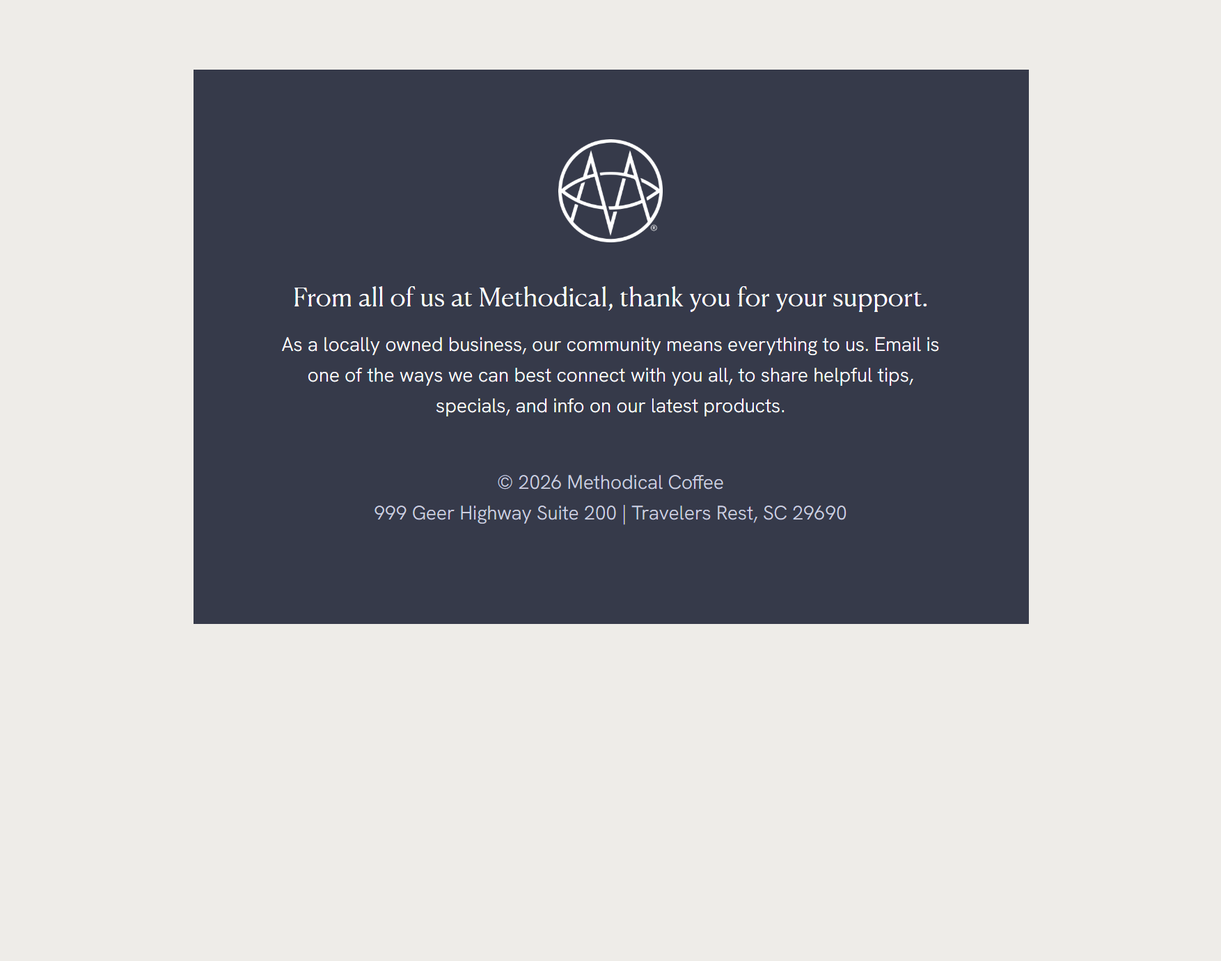
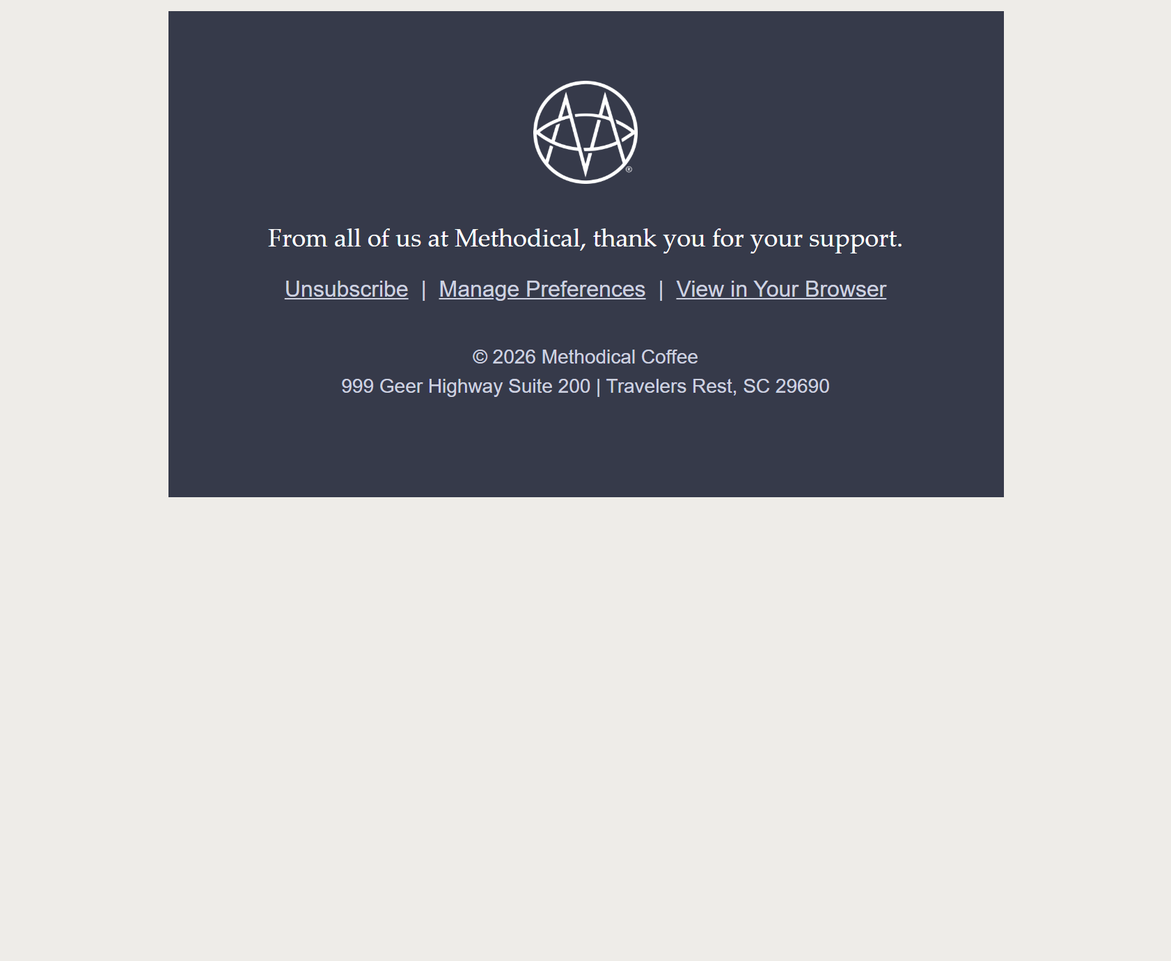
Day 74

Changed region(s): [[0.1237, 0.0, 0.8656, 0.6543]]

diff --git a/2026-03/15/generated_codes/5.html b/2026-03/15/generated_codes/5.html
@@ -24,118 +24,63 @@
                       <tr>
                         <td style="direction: ltr; font-size: 0px; padding: 0px; text-align: center">
                           <!--[if mso | IE]><table role="presentation" border="0" cellpadding="0" cellspacing="0"><table align="center" border="0" cellpadding="0" cellspacing="0" class="" style="width:600px;" width="600" bgcolor="#363A4A" ><tr><td style="line-height:0px;font-size:0px;mso-line-height-rule:exactly;"><![endif]-->
-                          <div style="background: #363a4a; background-color: #363a4a; margin: 0px auto; border-radius: 0px 0px 0px 0px; max-width: 600px">
-                            <table align="center" border="0" cellpadding="0" cellspacing="0" role="presentation" style="background: #363a4a; background-color: #363a4a; width: 100%; border-radius: 0px 0px 0px 0px">
+                          <div style="background: #363a4a; background-color: #363a4a; margin: 0px auto; border-radius: 0px; max-width: 600px">
+                            <table align="center" border="0" cellpadding="0" cellspacing="0" role="presentation" style="background: #363a4a; background-color: #363a4a; width: 100%; border-radius: 0px">
                               <tbody>
                                 <tr>
-                                  <td style="direction: ltr; font-size: 0px; padding: 20px 0; padding-bottom: 60px; padding-left: 18px; padding-right: 18px; padding-top: 0px; text-align: center">
-                                    <!--[if mso | IE]><table role="presentation" border="0" cellpadding="0" cellspacing="0"><![endif]-->
-                                    <div class="content-padding last">
-                                      <!--[if true]><table border="0" cellpadding="0" cellspacing="0" width="564" style="width:564px;direction:ltr"><tr><![endif]-->
-                                      <div class="kl-row colstack" style="display: table; table-layout: fixed; width: 100%">
-                                        <!--[if true]><td style="vertical-align:top;width:564px;"><![endif]-->
-                                        <div class="kl-column" style="display: table-cell; vertical-align: top; width: 100%">
-                                          <div class="mj-column-per-100 mj-outlook-group-fix component-wrapper" style="font-size: 0px; text-align: left; direction: ltr; vertical-align: top; width: 100%">
-                                            <table border="0" cellpadding="0" cellspacing="0" role="presentation" style="width: 100%" width="100%">
-                                              <tbody>
-                                                <tr>
-                                                  <td class="" style="vertical-align: top; padding-top: 50px; padding-right: 0px; padding-bottom: 25px; padding-left: 0px">
-                                                    <table border="0" cellpadding="0" cellspacing="0" role="presentation" style="" width="100%">
-                                                      <tbody>
-                                                        <tr>
-                                                          <td align="center" class="kl-image" style="font-size: 0px; word-break: break-word">
-                                                            <table border="0" cellpadding="0" cellspacing="0" style="border-collapse: collapse; border-spacing: 0px">
-                                                              <tbody>
-                                                                <tr>
-                                                                  <td class="" style="border: 0; padding: 0px 0px 0px 0px; width: 75px" valign="top">
-                                                                    <a class="kl-img-link" style="color: #ced2e0; text-decoration: underline; display: block" href="https://ctrk.klclick.com/l/01KHV6MWYHC7T019HEME2HEEEA_17">
-                                                                      <img alt="Methodical Coffee" src="https://d3k81ch9hvuctc.cloudfront.net/company/KKZyLV/images/0b6f1f4e-ba6d-4e9e-b814-00d23da8907f.png" style="display: block; outline: none; text-decoration: none; height: auto; font-size: 13px; width: 100%" title="Methodical Coffee" width="75" />
-                                                                    </a>
-                                                                  </td>
-                                                                </tr>
-                                                              </tbody>
-                                                            </table>
-                                                          </td>
-                                                        </tr>
-                                                      </tbody>
-                                                    </table>
-                                                  </td>
-                                                </tr>
-                                              </tbody>
-                                            </table>
-                                          </div>
-                                          <div class="mj-column-per-100 mj-outlook-group-fix component-wrapper" style="font-size: 0px; text-align: left; direction: ltr; vertical-align: top; width: 100%">
-                                            <table border="0" cellpadding="0" cellspacing="0" role="presentation" style="width: 100%" width="100%">
-                                              <tbody>
-                                                <tr>
-                                                  <td class="mob-no-spc" style="vertical-align: top; padding-top: 0px; padding-right: 25px; padding-bottom: 0px; padding-left: 25px">
-                                                    <table border="0" cellpadding="0" cellspacing="0" role="presentation" style="" width="100%">
-                                                      <tbody>
-                                                        <tr>
-                                                          <td align="left" class="kl-text" style="font-size: 0px; padding: 0px; padding-top: 0px; padding-right: 0px; padding-bottom: 0px; padding-left: 0px; word-break: break-word">
-                                                            <div style="font-family: &quot;Hanken Grotesk&quot;, Helvetica, Arial, sans-serif; font-size: 18px; font-style: normal; font-weight: 300; letter-spacing: 0px; line-height: 1.5; text-align: left; color: #3e3a37">
-                                                              <div style="text-align: center"><span style="font-family: &quot;Canela Text&quot;, Palatino, &quot;Palatino Linotype&quot;, &quot;Palatino LT STD&quot;, &quot;Book Antiqua&quot;, Georgia, serif; font-weight: 300; font-style: normal; font-size: 18px; color: rgb(255, 255, 255)">From all of us at Methodical, thank you for your support.</span></div>
-                                                            </div>
-                                                          </td>
-                                                        </tr>
-                                                      </tbody>
-                                                    </table>
-                                                  </td>
-                                                </tr>
-                                              </tbody>
-                                            </table>
-                                          </div>
-                                          <div class="mj-column-per-100 mj-outlook-group-fix component-wrapper" style="font-size: 0px; text-align: left; direction: ltr; vertical-align: top; width: 100%">
-                                            <table border="0" cellpadding="0" cellspacing="0" role="presentation" style="width: 100%" width="100%">
-                                              <tbody>
-                                                <tr>
-                                                  <td class="mob-no-spc" style="vertical-align: top; padding-top: 10px; padding-right: 25px; padding-bottom: 10px; padding-left: 25px">
-                                                    <table border="0" cellpadding="0" cellspacing="0" role="presentation" style="" width="100%">
-                                                      <tbody>
-                                                        <tr>
-                                                          <td align="left" class="kl-text" style="font-size: 0px; padding: 0px; padding-top: 0px; padding-right: 0px; padding-bottom: 0px; padding-left: 0px; word-break: break-word">
-                                                            <div style="font-family: &quot;Hanken Grotesk&quot;, Helvetica, Arial, sans-serif; font-size: 18px; font-style: normal; font-weight: 300; letter-spacing: 0px; line-height: 1.5; text-align: left; color: #3e3a37">
-                                                              <div style="text-align: center; line-height: 150%"><span style="font-family: &quot;Hanken Grotesk&quot;, Helvetica, Arial, sans-serif; font-weight: 300; font-style: normal; color: rgb(206, 210, 224); font-size: 14px"> As a locally owned business, our community means everything to us. Email is one of the ways we can best connect with you all, to share helpful tips, specials, and info on our latest products. </span></div>
-                                                            </div>
-                                                          </td>
-                                                        </tr>
-                                                      </tbody>
-                                                    </table>
-                                                  </td>
-                                                </tr>
-                                              </tbody>
-                                            </table>
-                                          </div>
-                                          <div class="mj-column-per-100 mj-outlook-group-fix component-wrapper" style="font-size: 0px; text-align: left; direction: ltr; vertical-align: top; width: 100%">
-                                            <table border="0" cellpadding="0" cellspacing="0" role="presentation" style="width: 100%" width="100%">
-                                              <tbody>
-                                                <tr>
-                                                  <td class="mob-no-spc" style="vertical-align: top; padding-top: 25px; padding-right: 9px; padding-bottom: 9px; padding-left: 9px">
-                                                    <table border="0" cellpadding="0" cellspacing="0" role="presentation" style="" width="100%">
-                                                      <tbody>
-                                                        <tr>
-                                                          <td align="left" class="kl-text" style="font-size: 0px; padding: 0px; padding-top: 0px; padding-right: 0px; padding-bottom: 0px; padding-left: 0px; word-break: break-word">
-                                                            <div style="font-family: &quot;Hanken Grotesk&quot;, Helvetica, Arial, sans-serif; font-size: 18px; font-style: normal; font-weight: 300; letter-spacing: 0px; line-height: 1.5; text-align: left; color: #3e3a37">
-                                                              <div style="text-align: center; line-height: 110%">
-                                                                <span style="font-family: &quot;Hanken Grotesk&quot;, Helvetica, Arial, sans-serif; font-weight: 300; font-style: normal; color: rgb(206, 210, 224); font-size: 14px"><span style="font-weight: 300; font-size: 14px; font-family: &quot;Hanken Grotesk&quot;, Helvetica, Arial, sans-serif; color: rgb(206, 210, 224)">© 2026 Methodical Coffee</span></span>
-                                                              </div>
-                                                              <div style="text-align: center; line-height: 110%"><span style="font-family: &quot;Hanken Grotesk&quot;, Helvetica, Arial, sans-serif; font-weight: 300; font-style: normal; color: rgb(206, 210, 224); font-size: 14px">999 Geer Highway Suite 200 | Travelers Rest, SC 29690</span></div>
-                                                            </div>
-                                                          </td>
-                                                        </tr>
-                                                      </tbody>
-                                                    </table>
-                                                  </td>
-                                                </tr>
-                                              </tbody>
-                                            </table>
-                                          </div>
-                                        </div>
-                                        <!--[if true]></td><![endif]-->
-                                      </div>
-                                      <!--[if true]></tr></table><![endif]-->
+                                  <td style="direction: ltr; font-size: 0px; padding: 40px 0 40px 0; text-align: center">
+                                    <div class="mj-column-per-100 mj-outlook-group-fix component-wrapper" style="font-size: 0px; text-align: left; direction: ltr; vertical-align: top; width: 100%">
+                                      <table border="0" cellpadding="0" cellspacing="0" role="presentation" style="width: 100%" width="100%">
+                                        <tbody>
+                                          <tr>
+                                            <td class="mob-no-spc" style="vertical-align: top; padding: 9px">
+                                              <table border="0" cellpadding="0" cellspacing="0" role="presentation" style="" width="100%">
+                                                <tbody>
+                                                  <tr>
+                                                    <td align="center" class="kl-text" style="font-size: 0px; padding: 0px; word-break: break-word">
+                                                      <div style="font-family: &quot;Canela Text&quot;, Palatino, &quot;Palatino Linotype&quot;, &quot;Palatino LT STD&quot;, &quot;Book Antiqua&quot;, Georgia, serif; font-size: 18px; font-style: normal; font-weight: 300; letter-spacing: 0px; line-height: 1.5; text-align: center; color: #ffffff">
+                                                        <div style="text-align: center"><span style="font-family: &quot;Canela Text&quot;, Palatino, &quot;Palatino Linotype&quot;, &quot;Palatino LT STD&quot;, &quot;Book Antiqua&quot;, Georgia, serif; font-weight: 300; font-style: normal; font-size: 18px; color: rgb(255, 255, 255)"> From all of us at Methodical, thank you for your support. </span></div>
+                                                      </div>
+                                                    </td>
+                                                  </tr>
+                                                </tbody>
+                                              </table>
+                                            </td>
+                                          </tr>
+                                          <tr>
+                                            <td class="mob-no-spc" style="vertical-align: top; padding-top: 25px; padding-right: 9px; padding-bottom: 9px; padding-left: 9px">
+                                              <table border="0" cellpadding="0" cellspacing="0" role="presentation" style="" width="100%">
+                                                <tbody>
+                                                  <tr>
+                                                    <td align="center" class="kl-text" style="font-size: 0px; padding: 0px; word-break: break-word">
+                                                      <div style="font-family: &quot;Hanken Grotesk&quot;, Helvetica, Arial, sans-serif; font-size: 14px; font-style: normal; font-weight: 300; letter-spacing: 0px; line-height: 1.5; text-align: center; color: #ced2e0">
+                                                        <div style="text-align: center"><a href="{{ unsubscribe_link }}" style="color: #ced2e0; text-decoration: underline">Unsubscribe</a> &nbsp;|&nbsp; <a href="{{ manage_preferences_link }}" style="color: #ced2e0; text-decoration: underline">Manage Preferences</a> &nbsp;|&nbsp; <a href="{{ view_in_browser_link }}" style="color: #ced2e0; text-decoration: underline">View in Your Browser</a></div>
+                                                      </div>
+                                                    </td>
+                                                  </tr>
+                                                </tbody>
+                                              </table>
+                                            </td>
+                                          </tr>
+                                          <tr>
+                                            <td class="mob-no-spc" style="vertical-align: top; padding-top: 20px; padding-right: 9px; padding-bottom: 9px; padding-left: 9px">
+                                              <table border="0" cellpadding="0" cellspacing="0" role="presentation" style="" width="100%">
+                                                <tbody>
+                                                  <tr>
+                                                    <td align="center" class="kl-text" style="font-size: 0px; padding: 0px; word-break: break-word">
+                                                      <div style="font-family: &quot;Hanken Grotesk&quot;, Helvetica, Arial, sans-serif; font-size: 14px; font-style: normal; font-weight: 300; letter-spacing: 0px; line-height: 1.5; text-align: center; color: #ced2e0">
+                                                        <div style="text-align: center; line-height: 110%"><span style="font-weight: 300; font-size: 14px; font-family: &quot;Hanken Grotesk&quot;, Helvetica, Arial, sans-serif; color: rgb(206, 210, 224)"> © 2026 Methodical Coffee </span></div>
+                                                        <div style="text-align: center; line-height: 110%"><span style="font-family: &quot;Hanken Grotesk&quot;, Helvetica, Arial, sans-serif; font-weight: 300; font-style: normal; color: rgb(206, 210, 224); font-size: 14px"> 999 Geer Highway Suite 200 | Travelers Rest, SC 29690 </span></div>
+                                                      </div>
+                                                    </td>
+                                                  </tr>
+                                                </tbody>
+                                              </table>
+                                            </td>
+                                          </tr>
+                                        </tbody>
+                                      </table>
                                     </div>
-                                    <!--[if mso | IE]></table><![endif]-->
                                   </td>
                                 </tr>
                               </tbody>

diff --git a/2026-03/15/generated_codes/3.html b/2026-03/15/generated_codes/3.html
@@ -47,9 +47,9 @@
                                                             <table border="0" cellpadding="0" cellspacing="0" style="border-collapse: collapse; border-spacing: 0px">
                                                               <tbody>
                                                                 <tr>
-                                                                  <td class="" style="border: 0; padding: 0px 0px 0px 0px; width: 90px" valign="top">
+                                                                  <td class="" style="border: 0; padding: 0px 0px 0px 0px; width: 75px" valign="top">
                                                                     <a class="kl-img-link" style="color: #ced2e0; text-decoration: underline; display: block" href="https://ctrk.klclick.com/l/01KHV6MWYHC7T019HEME2HEEEA_17">
-                                                                      <img alt="Methodical Coffee" src="https://d3k81ch9hvuctc.cloudfront.net/company/KKZyLV/images/0b6f1f4e-ba6d-4e9e-b814-00d23da8907f.png" style="display: block; outline: none; text-decoration: none; height: auto; font-size: 13px; width: 100%" title="Methodical Coffee" width="90" />
+                                                                      <img alt="Methodical Coffee" src="https://d3k81ch9hvuctc.cloudfront.net/company/KKZyLV/images/0b6f1f4e-ba6d-4e9e-b814-00d23da8907f.png" style="display: block; outline: none; text-decoration: none; height: auto; font-size: 13px; width: 100%" title="Methodical Coffee" width="75" />
                                                                     </a>
                                                                   </td>
                                                                 </tr>
@@ -74,7 +74,7 @@
                                                         <tr>
                                                           <td align="left" class="kl-text" style="font-size: 0px; padding: 0px; padding-top: 0px; padding-right: 0px; padding-bottom: 0px; padding-left: 0px; word-break: break-word">
                                                             <div style="font-family: &quot;Hanken Grotesk&quot;, Helvetica, Arial, sans-serif; font-size: 18px; font-style: normal; font-weight: 300; letter-spacing: 0px; line-height: 1.5; text-align: left; color: #3e3a37">
-                                                              <div style="text-align: center"><span style="font-family: &quot;Canela Text&quot;, Palatino, &quot;Palatino Linotype&quot;, &quot;Palatino LT STD&quot;, &quot;Book Antiqua&quot;, Georgia, serif; font-weight: 300; font-style: normal; font-size: 26px; color: rgb(255, 255, 255)"> From all of us at Methodical, thank you for your support. </span></div>
+                                                              <div style="text-align: center"><span style="font-family: &quot;Canela Text&quot;, Palatino, &quot;Palatino Linotype&quot;, &quot;Palatino LT STD&quot;, &quot;Book Antiqua&quot;, Georgia, serif; font-weight: 300; font-style: normal; font-size: 18px; color: rgb(255, 255, 255)">From all of us at Methodical, thank you for your support.</span></div>
                                                             </div>
                                                           </td>
                                                         </tr>
@@ -89,13 +89,15 @@
                                             <table border="0" cellpadding="0" cellspacing="0" role="presentation" style="width: 100%" width="100%">
                                               <tbody>
                                                 <tr>
-                                                  <td class="mob-no-spc" style="vertical-align: top; padding-top: 20px; padding-right: 25px; padding-bottom: 0px; padding-left: 25px">
+                                                  <td class="mob-no-spc" style="vertical-align: top; padding-top: 10px; padding-right: 25px; padding-bottom: 10px; padding-left: 25px">
                                                     <table border="0" cellpadding="0" cellspacing="0" role="presentation" style="" width="100%">
                                                       <tbody>
                                                         <tr>
                                                           <td align="left" class="kl-text" style="font-size: 0px; padding: 0px; padding-top: 0px; padding-right: 0px; padding-bottom: 0px; padding-left: 0px; word-break: break-word">
-                                                            <div style="font-family: &quot;Hanken Grotesk&quot;, Helvetica, Arial, sans-serif; font-size: 16px; font-style: normal; font-weight: 300; letter-spacing: 0px; line-height: 1.6; text-align: left; color: #3e3a37">
-                                                              <div style="text-align: center"><span style="color: #ced2e0"> As a locally owned business, our community means everything to us. Email is one of the ways we can best connect with you all, to share helpful tips, specials, and info on our latest products. </span></div>
+                                                            <div style="font-family: &quot;Hanken Grotesk&quot;, Helvetica, Arial, sans-serif; font-size: 18px; font-style: normal; font-weight: 300; letter-spacing: 0px; line-height: 1.5; text-align: left; color: #3e3a37">
+                                                              <div style="text-align: center; line-height: 120%">
+                                                                <span style="font-family: &quot;Hanken Grotesk&quot;, Helvetica, Arial, sans-serif; font-size: 14px; color: #ced2e0"> <a href="#" style="color: #ced2e0; text-decoration: underline">Unsubscribe</a> &nbsp;|&nbsp; <a href="#" style="color: #ced2e0; text-decoration: underline">Manage Preferences</a> &nbsp;|&nbsp; <a href="#" style="color: #ced2e0; text-decoration: underline">View in Your Browser</a> </span>
+                                                              </div>
                                                             </div>
                                                           </td>
                                                         </tr>

diff --git a/2026-03/15/generated_codes/4.html b/2026-03/15/generated_codes/4.html
@@ -73,8 +73,8 @@
                                                       <tbody>
                                                         <tr>
                                                           <td align="left" class="kl-text" style="font-size: 0px; padding: 0px; padding-top: 0px; padding-right: 0px; padding-bottom: 0px; padding-left: 0px; word-break: break-word">
-                                                            <div style="font-family: &quot;Hanken Grotesk&quot;, Helvetica, Arial, sans-serif; font-size: 28px; font-style: normal; font-weight: 300; letter-spacing: 0px; line-height: 1.4; text-align: left; color: #3e3a37">
-                                                              <div style="text-align: center"><span style="font-family: &quot;Canela Text&quot;, Palatino, &quot;Palatino Linotype&quot;, &quot;Palatino LT STD&quot;, &quot;Book Antiqua&quot;, Georgia, serif; font-weight: 300; font-style: normal; font-size: 28px; color: rgb(255, 255, 255)">From all of us at Methodical, thank you for your support.</span></div>
+                                                            <div style="font-family: &quot;Hanken Grotesk&quot;, Helvetica, Arial, sans-serif; font-size: 18px; font-style: normal; font-weight: 300; letter-spacing: 0px; line-height: 1.5; text-align: left; color: #3e3a37">
+                                                              <div style="text-align: center"><span style="font-family: &quot;Canela Text&quot;, Palatino, &quot;Palatino Linotype&quot;, &quot;Palatino LT STD&quot;, &quot;Book Antiqua&quot;, Georgia, serif; font-weight: 300; font-style: normal; font-size: 18px; color: rgb(255, 255, 255)">From all of us at Methodical, thank you for your support.</span></div>
                                                             </div>
                                                           </td>
                                                         </tr>
@@ -89,13 +89,17 @@
                                             <table border="0" cellpadding="0" cellspacing="0" role="presentation" style="width: 100%" width="100%">
                                               <tbody>
                                                 <tr>
-                                                  <td class="mob-no-spc" style="vertical-align: top; padding-top: 20px; padding-right: 40px; padding-bottom: 0px; padding-left: 40px">
+                                                  <td class="mob-no-spc" style="vertical-align: top; padding-top: 15px; padding-right: 9px; padding-bottom: 9px; padding-left: 9px">
                                                     <table border="0" cellpadding="0" cellspacing="0" role="presentation" style="" width="100%">
                                                       <tbody>
                                                         <tr>
                                                           <td align="left" class="kl-text" style="font-size: 0px; padding: 0px; padding-top: 0px; padding-right: 0px; padding-bottom: 0px; padding-left: 0px; word-break: break-word">
-                                                            <div style="font-family: &quot;Hanken Grotesk&quot;, Helvetica, Arial, sans-serif; font-size: 16px; font-style: normal; font-weight: 300; letter-spacing: 0px; line-height: 1.6; text-align: left; color: #3e3a37">
-                                                              <div style="text-align: center"><span style="color: rgb(206, 210, 224)">As a locally owned business, our community means everything to us. Email is one of the ways we can best connect with you all, to share helpful tips, specials, and info on our latest products.</span></div>
+                                                            <div style="font-family: &quot;Hanken Grotesk&quot;, Helvetica, Arial, sans-serif; font-size: 18px; font-style: normal; font-weight: 300; letter-spacing: 0px; line-height: 1.5; text-align: left; color: #3e3a37">
+                                                              <div style="text-align: center; line-height: 110%">
+                                                                <span style="font-family: &quot;Hanken Grotesk&quot;, Helvetica, Arial, sans-serif; font-weight: 300; font-style: normal; color: rgb(206, 210, 224); font-size: 14px">
+                                                                  <a href="{{ unsubscribe_link }}" style="color: #ced2e0; text-decoration: underline">Unsubscribe</a> &nbsp;|&nbsp; <a href="{{ manage_preferences_link }}" style="color: #ced2e0; text-decoration: underline">Manage Preferences</a> &nbsp;|&nbsp; <a href="{{ view_in_browser_link }}" style="color: #ced2e0; text-decoration: underline">View in Your Browser</a>
+                                                                </span>
+                                                              </div>
                                                             </div>
                                                           </td>
                                                         </tr>

diff --git a/2026-03/15/generated_codes/2.html b/2026-03/15/generated_codes/2.html
@@ -74,7 +74,7 @@
                                                         <tr>
                                                           <td align="left" class="kl-text" style="font-size: 0px; padding: 0px; padding-top: 0px; padding-right: 0px; padding-bottom: 0px; padding-left: 0px; word-break: break-word">
                                                             <div style="font-family: &quot;Hanken Grotesk&quot;, Helvetica, Arial, sans-serif; font-size: 18px; font-style: normal; font-weight: 300; letter-spacing: 0px; line-height: 1.5; text-align: left; color: #3e3a37">
-                                                              <div style="text-align: center"><span style="font-family: &quot;Canela Text&quot;, Palatino, &quot;Palatino Linotype&quot;, &quot;Palatino LT STD&quot;, &quot;Book Antiqua&quot;, Georgia, serif; font-weight: 300; font-style: normal; font-size: 28px; color: rgb(255, 255, 255)">From all of us at Methodical, thank you for your support.</span></div>
+                                                              <div style="text-align: center"><span style="font-family: &quot;Canela Text&quot;, Palatino, &quot;Palatino Linotype&quot;, &quot;Palatino LT STD&quot;, &quot;Book Antiqua&quot;, Georgia, serif; font-weight: 300; font-style: normal; font-size: 18px; color: rgb(255, 255, 255)">From all of us at Methodical, thank you for your support.</span></div>
                                                             </div>
                                                           </td>
                                                         </tr>
@@ -89,13 +89,15 @@
                                             <table border="0" cellpadding="0" cellspacing="0" role="presentation" style="width: 100%" width="100%">
                                               <tbody>
                                                 <tr>
-                                                  <td class="mob-no-spc" style="vertical-align: top; padding-top: 15px; padding-right: 25px; padding-bottom: 15px; padding-left: 25px">
+                                                  <td class="mob-no-spc" style="vertical-align: top; padding-top: 10px; padding-right: 9px; padding-bottom: 9px; padding-left: 9px">
                                                     <table border="0" cellpadding="0" cellspacing="0" role="presentation" style="" width="100%">
                                                       <tbody>
                                                         <tr>
                                                           <td align="left" class="kl-text" style="font-size: 0px; padding: 0px; padding-top: 0px; padding-right: 0px; padding-bottom: 0px; padding-left: 0px; word-break: break-word">
                                                             <div style="font-family: &quot;Hanken Grotesk&quot;, Helvetica, Arial, sans-serif; font-size: 18px; font-style: normal; font-weight: 300; letter-spacing: 0px; line-height: 1.5; text-align: left; color: #3e3a37">
-                                                              <div style="text-align: center; line-height: 150%"><span style="font-family: &quot;Hanken Grotesk&quot;, Helvetica, Arial, sans-serif; font-weight: 300; font-style: normal; color: rgb(206, 210, 224); font-size: 16px">As a locally owned business, our community means everything to us. Email is one of the ways we can best connect with you all, to share helpful tips, specials, and info on our latest products.</span></div>
+                                                              <div style="text-align: center; line-height: 110%">
+                                                                <span style="font-family: &quot;Hanken Grotesk&quot;, Helvetica, Arial, sans-serif; font-size: 14px; color: #ced2e0"> <a href="#" style="color: #ced2e0; text-decoration: underline">Unsubscribe</a> &nbsp;|&nbsp; <a href="#" style="color: #ced2e0; text-decoration: underline">Manage Preferences</a> &nbsp;|&nbsp; <a href="#" style="color: #ced2e0; text-decoration: underline">View in Your Browser</a> </span>
+                                                              </div>
                                                             </div>
                                                           </td>
                                                         </tr>

diff --git a/2026-03/15/_gold-standandard.html b/2026-03/15/_gold-standandard.html
@@ -8,7 +8,6 @@
     <meta content="text/html; charset=utf-8" http-equiv="Content-Type" />
     <meta content="width=device-width, initial-scale=1" name="viewport" />
   </head>
-
   <body style="word-spacing: normal; background-color: #eeece8">
     <div style="display: none; font-size: 1px; color: #ffffff; line-height: 1px; max-height: 0px; max-width: 0px; opacity: 0; overflow: hidden">Find the perfect roast for you!</div>
     <!-- TRACKING_PIXEL_TOP -->
@@ -90,13 +89,24 @@
                                             <table border="0" cellpadding="0" cellspacing="0" role="presentation" style="width: 100%" width="100%">
                                               <tbody>
                                                 <tr>
-                                                  <td class="mob-no-spc" style="vertical-align: top; padding-top: 9px; padding-right: 45px; padding-bottom: 9px; padding-left: 45px">
+                                                  <td class="mob-no-spc" style="vertical-align: top; padding-top: 9px; padding-right: 18px; padding-bottom: 0px; padding-left: 18px">
                                                     <table border="0" cellpadding="0" cellspacing="0" role="presentation" style="" width="100%">
                                                       <tbody>
                                                         <tr>
                                                           <td align="left" class="kl-text" style="font-size: 0px; padding: 0px; padding-top: 0px; padding-right: 0px; padding-bottom: 0px; padding-left: 0px; word-break: break-word">
                                                             <div style="font-family: &quot;Hanken Grotesk&quot;, Helvetica, Arial, sans-serif; font-size: 18px; font-style: normal; font-weight: 300; letter-spacing: 0px; line-height: 1.5; text-align: left; color: #3e3a37">
-                                                              <div style="text-align: center; line-height: 110%"><span style="font-family: &quot;Hanken Grotesk&quot;, Helvetica, Arial, sans-serif; font-weight: 300; font-style: normal; color: rgb(255, 255, 255); font-size: 14px">As a locally owned business, our community means everything to us. Email is one of the ways we can best connect with you all, to share helpful tips, specials, and info on our latest products.</span></div>
+                                                              <div style="text-align: center">
+                                                                <strong
+                                                                  ><span style="font-family: &quot;Hanken Grotesk&quot;, Helvetica, Arial, sans-serif; font-style: normal; color: rgb(206, 210, 224); font-size: 16px"
+                                                                    ><a class="unsubscribe-link" style="color: #ced2e0; font-style: normal; font-weight: normal; text-decoration: underline" href="#">Unsubscribe</a>&nbsp; | &nbsp;<a class="manage-preferences" style="color: #ced2e0; font-style: normal; font-weight: normal; text-decoration: underline" href="#">Manage Preferences</a>&nbsp; | &nbsp;<a
+                                                                      class="web-view"
+                                                                      style="color: #ced2e0; font-style: normal; font-weight: normal; text-decoration: underline"
+                                                                      href="#"
+                                                                      >View in Your Browser</a
+                                                                    ></span
+                                                                  ></strong
+                                                                >
+                                                              </div>
                                                             </div>
                                                           </td>
                                                         </tr>

diff --git a/2026-03/15/generated_codes/1.html b/2026-03/15/generated_codes/1.html
@@ -89,13 +89,15 @@
                                             <table border="0" cellpadding="0" cellspacing="0" role="presentation" style="width: 100%" width="100%">
                                               <tbody>
                                                 <tr>
-                                                  <td class="mob-no-spc" style="vertical-align: top; padding-top: 15px; padding-right: 25px; padding-bottom: 15px; padding-left: 25px">
+                                                  <td class="mob-no-spc" style="vertical-align: top; padding-top: 20px; padding-right: 9px; padding-bottom: 0px; padding-left: 9px">
                                                     <table border="0" cellpadding="0" cellspacing="0" role="presentation" style="" width="100%">
                                                       <tbody>
                                                         <tr>
                                                           <td align="left" class="kl-text" style="font-size: 0px; padding: 0px; padding-top: 0px; padding-right: 0px; padding-bottom: 0px; padding-left: 0px; word-break: break-word">
-                                                            <div style="font-family: &quot;Hanken Grotesk&quot;, Helvetica, Arial, sans-serif; font-size: 14px; font-style: normal; font-weight: 300; letter-spacing: 0px; line-height: 1.6; text-align: left; color: #3e3a37">
-                                                              <div style="text-align: center"><span style="font-family: &quot;Hanken Grotesk&quot;, Helvetica, Arial, sans-serif; font-weight: 300; font-style: normal; color: rgb(206, 210, 224); font-size: 14px"> As a locally owned business, our community means everything to us. Email is one of the ways we can best connect with you all, to share helpful tips, specials, and info on our latest products. </span></div>
+                                                            <div style="font-family: &quot;Hanken Grotesk&quot;, Helvetica, Arial, sans-serif; font-size: 18px; font-style: normal; font-weight: 300; letter-spacing: 0px; line-height: 1.5; text-align: left; color: #3e3a37">
+                                                              <div style="text-align: center">
+                                                                <span style="font-family: &quot;Hanken Grotesk&quot;, Helvetica, Arial, sans-serif; font-size: 14px; color: #ced2e0"> <a href="#" style="color: #ced2e0; text-decoration: underline">Unsubscribe</a> &nbsp;|&nbsp; <a href="#" style="color: #ced2e0; text-decoration: underline">Manage Preferences</a> &nbsp;|&nbsp; <a href="#" style="color: #ced2e0; text-decoration: underline">View in Your Browser</a> </span>
+                                                              </div>
                                                             </div>
                                                           </td>
                                                         </tr>
@@ -147,7 +149,6 @@
                     </tbody>
                   </table>
                 </div>
-                <!--[if mso | IE]></td></tr></table><![endif]-->
               </td>
             </tr>
           </tbody>
